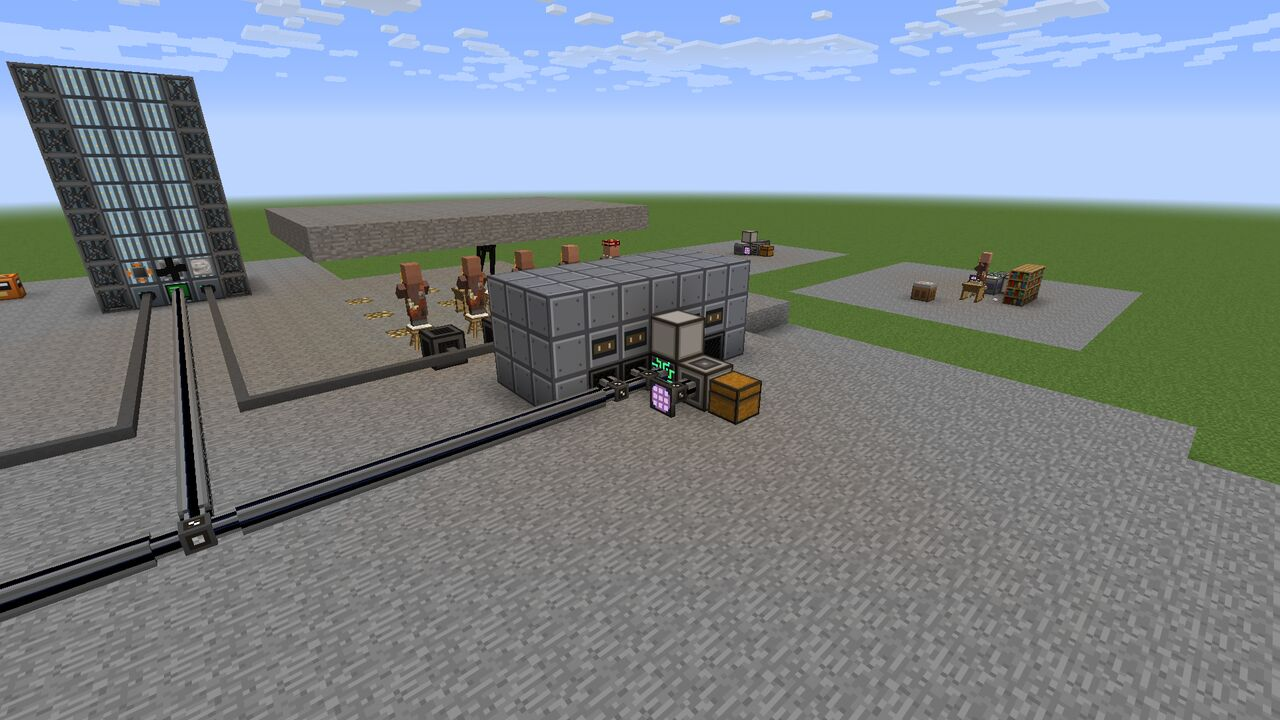
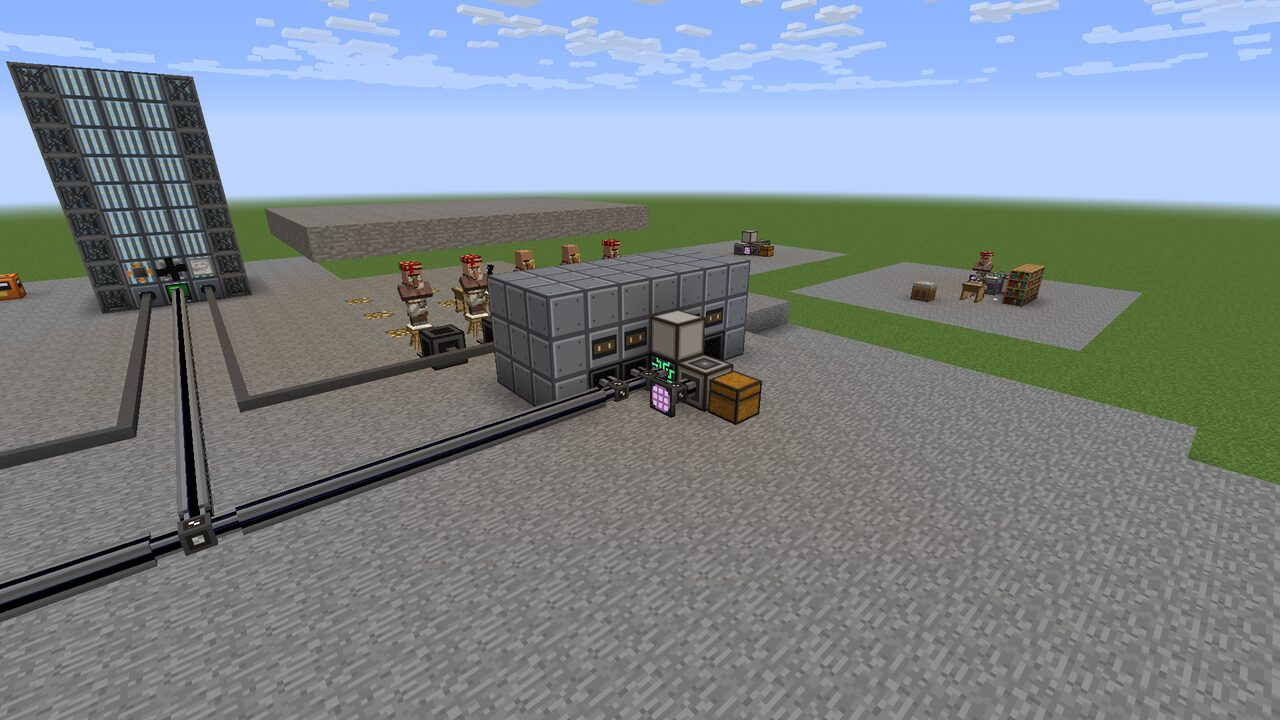
Mainframe terminals need a keyboard in front of the screen
A Mainframe terminal is now a whole OC workstation: a seat, an OC keyboard
beside it, and the screen right behind the keyboard (Workplace.atTerminal).
A worker by a screen with no keyboard counts for nothing, and when that
leaves the office empty, the Mainframe says "no keyboard in front of the
screens" instead of "nobody on the seat".

The office tests place a flat keyboard between each screen and seat, check
the workers face it, and take the keyboards away and back.  Seating stands
beside the seat now, clear of the keyboard, and hiring tries other sides
when a villager wanders in among the workstations.  Both manuals describe
the workstation, and the Founder's Manual has new office pictures.

diff --git a/docs/founders-manual/index.html b/docs/founders-manual/index.html
@@ -321,8 +321,9 @@ morale 100 → 120 % output</div>
       </ul>
 
       <h3>The office</h3>
-      <p>Put it wherever you like: OpenComputers screens on OC cable from the concentrator, each with a contracted worker seated within 2 blocks.  The concentrator powers the screens, up to 32 terminals.</p>
-      <figure><img src="img/office.jpg" alt="Villagers seated at OpenComputers screens, an Enderman team lead at a desk, glowstone in the floor under a roof" width="1280" height="720" loading="lazy"><figcaption><b>The office.</b>  Five librarians at their terminals and an Enderman team lead at his desk, under a roof with glowstone in the floor.</figcaption></figure>
+      <p>Put it wherever you like: OpenComputers screens on OC cable from the concentrator.  Each terminal is a proper workstation: a seat, an OC <b>keyboard</b> beside it, and the screen right behind the keyboard, at its height or one up.  A contracted worker goes on the seat and faces the keyboard.  The concentrator powers the screens, up to 32 terminals.</p>
+      <p class="aside">A worker parked by a screen with no keyboard just stares at it, and bills you for the privilege.  The status line says "no keyboard in front of the screens".  Buy the keyboards.</p>
+      <figure><img src="img/office.jpg" alt="Villagers seated at OpenComputers workstations, a keyboard on the floor in front of each and a screen behind it, an Enderman team lead at a desk, glowstone in the floor under a roof" width="1280" height="720" loading="lazy"><figcaption><b>The office.</b>  Five librarians at their terminals, each facing a keyboard with its screen behind, and an Enderman team lead at its desk, under a roof with glowstone in the floor.</figcaption></figure>
 
       <h3 id="managers">Management</h3>
       <p>Unmanaged people don't cooperate.  A facility's FTE is the sum of its unmanaged units divided by the square root of how many there are.  A manager's team counts as the sum of its reports times the manager's efficiency, up to 8 reports.  Managers produce nothing.  They are required.</p>
@@ -478,6 +479,7 @@ re-verifying  = 20 % × (1 − training) chance per finished plan</div>
           <tr><td>no power or no ME channel</td><td>Power the network, and give the tray or controller a channel</td></tr>
           <tr><td>no seat within 2 blocks</td><td>Put a BiblioCraft seat within 2 blocks of the tray</td></tr>
           <tr><td>nobody on the seat</td><td>Hire someone, or sit down yourself</td></tr>
+          <tr><td>no keyboard in front of the screens</td><td>A Mainframe terminal is seat, keyboard, then screen.  Put the keyboard between them</td></tr>
           <tr><td>no desk next to the seat</td><td>A BiblioCraft desk beside the seat</td></tr>
           <tr><td>no typewriter (no planning)</td><td>A typewriter within a block of the seat</td></tr>
           <tr><td>paper (planning at 25 %)</td><td>Paper in the tray, or paper or punch cards in the input bus</td></tr>

diff --git a/inworld-tests/test_mainframe.py b/inworld-tests/test_mainframe.py
@@ -4,12 +4,14 @@ In-world test: the Mainframe, the EV facility (design document, section 6.2; M3 
 
 A Mainframe facing north, its four racks holding tier 1 servers (32 FTE of hardware), a debug energy hatch, an
 maintenance hatch (fixed by the harness) and input and output buses at the back, and its Terminal Concentrator wired by OC cable to five
-separate tier 1 screens.  Each screen has a BiblioCraft seat two blocks south of it.  The ME network is the Desk
+separate tier 1 screens.  Each screen is a workstation: an OC keyboard on the floor south of it and a BiblioCraft
+seat south of the keyboard.  The ME network is the Desk
 test's: a creative controller, a drive, and an interface whose stone pattern pushes cobblestone into a chest.
 
   Formed:      the structure forms; with nobody seated it reports no workers.
   Office:      five librarians, hired and seated, are five terminals' workers: five unmanaged roots are worth
-               5 / sqrt(5) FTE, planning at that x 4 x 1.5 steps/s while idle.
+               5 / sqrt(5) FTE, planning at that x 4 x 1.5 steps/s while idle.  Each faces its keyboard, north.
+  Keyboards:   with the keyboards gone, nobody counts and the Mainframe says why; put back, all five count again.
   A craft:     200 stone dispatch at the office's rate, about 2.2 ops/s (librarians have no dispatch affinity).
   Management:  an Enderman at a desk with a bell, under a roof so the sun does not make it teleport, becomes their
                team lead: 5 x 0.8 = 4 FTE.
@@ -25,7 +27,7 @@ from nhdev import NH_DEV_ROOT as REPO_ROOT  # noqa: F401 (puts the workspace on 
 from tools.agentharness import HarnessClient
 from tools.inworld_test_driver import InWorldTestDriver
 
-from abtest import Chat, count_items, desk_status, entities
+from abtest import NORTH_YAW, Chat, count_items, desk_status, entities, faces
 
 TAG = "ab_mainframe"
 Y = 6
@@ -39,6 +41,7 @@ INTERFACE = (60, Y, 418)
 PUSHED = (60, Y, 417)
 SCREENS_X = (56, 58, 60, 62, 64)
 SCREEN_Z = 425
+KEYBOARD_Z = 426
 SEAT_Z = 427
 MANAGER_SEAT = (60, Y, 430)
 STANDING_ON = (60.5, Y, 432.5)
@@ -84,13 +87,14 @@ def build(client: HarnessClient):
     client.set_container_slot(*INPUT_BUS, 2, "minecraft:emerald", 16)
     client.set_container_slot(*INPUT_BUS, 3, "minecraft:ender_pearl", 4)
     client.set_container_slot(*INPUT_BUS, 4, "appliedbureaucratics:component", 4, damage=4)
-    # The office: cable from the concentrator to a row of separate screens, a seat south of each.
+    # The office: cable from the concentrator to a row of separate screens, each with a keyboard and a seat south.
     client.set_block(60, Y, 423, "OpenComputers:cable")
     for x in range(55, 66):
         client.set_block(x, Y, 424, "OpenComputers:cable")
     for x in SCREENS_X:
         client.set_block(x, Y, SCREEN_Z, "OpenComputers:screen1")
         client.set_block(x, Y, SEAT_Z, "BiblioCraft:BiblioSeats")
+    add_keyboards(client)
     # A manager's office: a seat with a desk and a bell beside it.
     client.set_block(*MANAGER_SEAT, "BiblioCraft:BiblioSeats")
     client.set_block(MANAGER_SEAT[0] + 1, Y, MANAGER_SEAT[2], "BiblioCraft:BiblioDesk")
@@ -143,8 +147,10 @@ def wait_status(client: HarnessClient, chat: Chat, test, seconds: float = 30) ->
 
 
 def hire(client: HarnessClient, chat: Chat, entity: dict, contract: str):
-    """Hires `entity`, retrying with its new position if it walked off before the click landed."""
-    for attempt in range(4):
+    """Hires `entity`, retrying with its new position if it walked off before the click landed, and from another side
+    if something (a seat, when it wandered in among the workstations) was in the way."""
+    sides = ((0, 2.5), (2.5, 0), (-2.5, 0), (0, -2.5))
+    for attempt in range(8):
         if attempt:
             moved = [e for e in client.nearby_entities(radius=40) if e.get("id") == entity["id"]]
             if not moved:
@@ -152,7 +158,8 @@ def hire(client: HarnessClient, chat: Chat, entity: dict, contract: str):
             entity = moved[0]
         client.set_player_slot(0, contract, 1)
         client.select_item(contract)
-        client.teleport(entity["x"], Y, entity["z"] + 2.5)
+        dx, dz = sides[attempt % len(sides)]
+        client.teleport(entity["x"] + dx, Y, entity["z"] + dz)
         time.sleep(0.3)
         client.look_at(entity["x"], entity["y"] + 1.0, entity["z"])
         client.right_click()
@@ -161,10 +168,32 @@ def hire(client: HarnessClient, chat: Chat, entity: dict, contract: str):
     raise AssertionError(f"Could not hire {entity}")
 
 
-def seat(client: HarnessClient, chat: Chat, seat_pos: tuple):
+def add_keyboards(client: HarnessClient, xs=SCREENS_X, by_hand: bool = True):
+    """A keyboard on the floor between each screen and its seat.
+
+    By hand, each is placed as a player would, standing on the empty seat and looking north at the floor, so it lies
+    flat with its keys towards the seat; `set_block` would stand it on edge against the screen.  Placing by hand needs
+    the seats empty: a seated worker would take the click."""
+    if not by_hand:
+        for x in xs:
+            client.set_block(x, Y, KEYBOARD_Z, "OpenComputers:keyboard")
+        return
+    client.set_player_slot(0, "OpenComputers:keyboard", 64)
+    client.select_item("OpenComputers:keyboard")
+    for x in xs:
+        client.teleport(x + 0.5, Y + 1, SEAT_Z + 0.5)
+        time.sleep(0.3)
+        client.look_at(x + 0.5, Y, KEYBOARD_Z + 0.4)
+        client.right_click()
+        time.sleep(0.2)
+    client.set_player_slot(0)
+
+
+def seat(client: HarnessClient, chat: Chat, seat_pos: tuple, side=(1, 0)):
+    """Seats the worker of the selected signed contract, standing on `side` (dx, dz) of the seat: by default east,
+    away from where the workers wait and clear of the keyboard in front of the seat."""
     client.select_item("appliedbureaucratics:signed_contract")
-    # From the side away from where the workers wait, so none of them is in the way.
-    client.teleport(seat_pos[0] + 0.5, Y, seat_pos[2] - 1.5)
+    client.teleport(seat_pos[0] + 0.5 + side[0], Y, seat_pos[2] + 0.5 + side[1])
     time.sleep(0.3)
     client.look_at(seat_pos[0] + 0.5, seat_pos[1] + 0.4, seat_pos[2] + 0.5)
     time.sleep(0.3)
@@ -207,7 +236,26 @@ def check_office(client: HarnessClient, chat: Chat):
     assert s.get("workers") == len(SCREENS_X), s
     assert abs(s["fte"] - fte) < 0.01, f"Expected {fte:.3f} FTE from five unmanaged workers, got {s}"
     assert abs(s["planning"] - fte * 4 * 1.5) < 0.3, f"Expected about {fte * 6:.1f} steps/s, got {s}"
-    print(f"[✓] Five librarians: {s['fte']:.2f} FTE, planning at {s['planning']} steps/s")
+    seated = [e for e in entities(client, "EntityVillager", radius=30) if abs(e["z"] - (SEAT_Z + 0.5)) < 0.3]
+    assert len(seated) == len(SCREENS_X), f"Expected {len(SCREENS_X)} seated villagers, got {seated}"
+    turned = [e for e in seated if not faces(e, NORTH_YAW)]
+    assert not turned, f"Expected every worker to face its keyboard, north: {turned}"
+    print(f"[✓] Five librarians, facing their keyboards: {s['fte']:.2f} FTE, planning at {s['planning']} steps/s")
+
+
+def check_keyboards(client: HarnessClient, chat: Chat):
+    print("[*] Keyboards")
+    for x in SCREENS_X:
+        client.set_block(x, Y, KEYBOARD_Z, "minecraft:air")
+    s = wait_status(client, chat, lambda s: s.get("workers") == 0)
+    print(f"    {s}")
+    assert s.get("workers") == 0, f"Expected no workers without keyboards, got {s}"
+    assert "no keyboard" in s["head"], f"Expected the Mainframe to blame the keyboards, got {s}"
+    add_keyboards(client, by_hand=False)
+    client.teleport(*STANDING_ON)
+    s = wait_status(client, chat, lambda s: s.get("workers") == len(SCREENS_X))
+    assert s.get("workers") == len(SCREENS_X), f"Expected all five back at work, got {s}"
+    print("[✓] Without keyboards nobody counts, and the Mainframe says so; with them back, all five do")
 
 
 def check_craft(client: HarnessClient, chat: Chat):
@@ -252,7 +300,8 @@ def check_management(client: HarnessClient, chat: Chat):
             hired = True
             break
     assert hired, "Could not hire an Enderman"
-    seat(client, chat, MANAGER_SEAT)
+    # From the north: the desk is east of the seat, and the Enderman waits south of it.
+    seat(client, chat, MANAGER_SEAT, side=(0, -1))
     client.teleport(*STANDING_ON)
     s = wait_status(client, chat, lambda s: s.get("leads") == 1)
     print(f"    {s}")
@@ -272,6 +321,7 @@ def main(port: int) -> bool:
         chat = Chat(client)
         check_formed(client, chat)
         check_office(client, chat)
+        check_keyboards(client, chat)
         check_craft(client, chat)
         check_management(client, chat)
 

diff --git a/src/main/java/com/gtnewhorizons/appliedbureaucratics/facility/mainframe/MTEMainframe.java b/src/main/java/com/gtnewhorizons/appliedbureaucratics/facility/mainframe/MTEMainframe.java
@@ -49,6 +49,7 @@ import com.gtnewhorizons.appliedbureaucratics.facility.internet.MTEInternet;
 import com.gtnewhorizons.appliedbureaucratics.item.ItemComponent;
 import com.gtnewhorizons.appliedbureaucratics.workforce.Employment;
 import com.gtnewhorizons.appliedbureaucratics.workforce.ManagerKind;
+import com.gtnewhorizons.appliedbureaucratics.workforce.Workplace;
 
 import appeng.me.cluster.implementations.HostedCraftingCPUCluster;
 import cpw.mods.fml.common.registry.GameRegistry;
@@ -76,7 +77,9 @@ the racks are its hardware capacity, in FTE: 8 / 16 / 32 for a tier 1 / 2 / 3 se
 Office FTE above the hardware is wasted, and each open maintenance issue takes 10 % of the hardware.
 
 The office is freeform.  A terminal is an OC screen on the concentrator's network (TileTerminalConcentrator), with a
-contracted worker seated within 2 blocks of it; a screen of tier 1 / 2 / 3 makes its worker worth 1 / 1.25 / 1.5 FTE.
+contracted worker seated within 2 blocks of it at an OC workstation: a keyboard beside the seat and a screen behind
+the keyboard (Workplace.atTerminal; see Note [Facing the workstation]).  A screen of tier 1 / 2 / 3 makes its
+worker worth 1 / 1.25 / 1.5 FTE.
 A manager's office is a seat with a BiblioCraft desk and bell next to it, within 24 blocks of the controller; the org
 chart (OrgChart) is built from where everyone sits, with leads and one level of directors.
 
@@ -113,6 +116,8 @@ public class MTEMainframe extends MTEComputeFacility<MTEMainframe> implements IS
     private double hardwareFte;
     private int servers;
     private int terminals;
+    /// Workers seated by a screen with no keyboard in front of it, who count for nothing.
+    private int withoutKeyboard;
     private int robots;
     private double botnetFactor = 0.5;
     private static final int MAX_SEATS = 32;
@@ -157,7 +162,8 @@ public class MTEMainframe extends MTEComputeFacility<MTEMainframe> implements IS
             .addInfo("Nobody ever got fired for buying one.")
             .addInfo("One AE2 job slot, run by an office of villagers at OpenComputers terminals")
             .addInfo("Hardware capacity from the servers in its racks: 8 / 16 / 32 FTE per tier 1 / 2 / 3 server")
-            .addInfo("Terminals: OC screens on the Terminal Concentrator's network, a contracted worker seated by each")
+            .addInfo("Terminals: OC screens on the Terminal Concentrator's network, each with a keyboard in front")
+            .addInfo("A contracted worker seated at each keyboard, facing the screen")
             .addInfo("Managers: a seat with a desk and a bell, within 24 blocks")
             .addInfo("Input bus: tape reels (Filing), paper or punch cards, emeralds, ender pearls, gold, data tapes")
             .addInfo("Output bus: Work Logs")
@@ -354,6 +360,7 @@ public class MTEMainframe extends MTEComputeFacility<MTEMainframe> implements IS
         }
         final List<OrgChart.Worker> staff = new ArrayList<>();
         final Set<Workstations.Seated> counted = new HashSet<>();
+        final Set<Workstations.Seated> keyboardless = new HashSet<>();
         int amenitySum = 0;
         int crowdedSeats = 0;
         boolean hasButcher = false;
@@ -368,9 +375,15 @@ public class MTEMainframe extends MTEComputeFacility<MTEMainframe> implements IS
             for (final Workstations.Seated seated : Workstations
                 .within(world, screen.x() + 0.5, screen.y() + 0.5, screen.z() + 0.5, 2.5)) {
                 if (seated.employment()
-                    .getRole() == Employment.Role.WORKER && !counted.contains(seated)
-                    && (best == null || seated.distanceSq(screen.x() + 0.5, screen.y() + 0.5, screen.z() + 0.5)
-                        < best.distanceSq(screen.x() + 0.5, screen.y() + 0.5, screen.z() + 0.5))) {
+                    .getRole() != Employment.Role.WORKER || counted.contains(seated)) {
+                    continue;
+                }
+                if (!Workplace.atTerminal(world, seated.x(), seated.y(), seated.z())) {
+                    keyboardless.add(seated);
+                    continue;
+                }
+                if ((best == null || seated.distanceSq(screen.x() + 0.5, screen.y() + 0.5, screen.z() + 0.5)
+                    < best.distanceSq(screen.x() + 0.5, screen.y() + 0.5, screen.z() + 0.5))) {
                     best = seated;
                 }
             }
@@ -466,6 +479,8 @@ public class MTEMainframe extends MTEComputeFacility<MTEMainframe> implements IS
         }
         this.org = new OrgChart.Result(roots, chart.leads(), chart.directors(), chart.executives(), chart.unmanaged());
         this.terminals = screens.size();
+        keyboardless.removeAll(counted);
+        this.withoutKeyboard = keyboardless.size();
         this.workers = staff.size();
         this.amenities = staff.isEmpty() ? 0 : amenitySum / staff.size();
         this.crowded = crowdedSeats * 2 > staff.size() && !staff.isEmpty();
@@ -510,7 +525,7 @@ public class MTEMainframe extends MTEComputeFacility<MTEMainframe> implements IS
             return;
         }
         if (this.workers == 0) {
-            this.setOff(Bottleneck.NO_WORKER);
+            this.setOff(this.withoutKeyboard > 0 ? Bottleneck.NO_KEYBOARD : Bottleneck.NO_WORKER);
             this.showScreens();
             return;
         }

diff --git a/src/main/java/com/gtnewhorizons/appliedbureaucratics/workforce/Workplace.java b/src/main/java/com/gtnewhorizons/appliedbureaucratics/workforce/Workplace.java
@@ -1,5 +1,6 @@
 package com.gtnewhorizons.appliedbureaucratics.workforce;
 
+import net.minecraft.block.Block;
 import net.minecraft.world.World;
 
 import org.jspecify.annotations.Nullable;
@@ -25,8 +26,14 @@ DataWatcher, so the client's copy of the mount, which is made from a spawn packe
 turns the rider the same way as the server's.  The server looks for the workstation again every second, so a seat
 furnished after its worker sat down, or refurnished, turns its worker round.  A seat with no workstation keeps the
 yaw it had: when the worker sat down, the way the player who seated it was looking.
+
+A Mainframe terminal is a whole OC workstation, not just a screen: Workplace.atTerminal holds when the seat has an
+OC keyboard beside it (at seat height or one above, on a desk) and an OC screen right behind the keyboard, at the
+keyboard's height or one above.  In the office tests (test_mainframe.py, test_internet.py) the seat is at z 427,
+the keyboard on the floor at z 426 and the screen at z 425, so the worker faces north, at the keyboard and screen.
+MTEMainframe counts a worker at a screen only when its seat passes atTerminal.
 */
-/// Where a seated worker works: which way it faces.
+/// Where a seated worker works: which way it faces, and whether its seat is an OpenComputers workstation.
 /// See Note [Facing the workstation].
 public final class Workplace {
 
@@ -49,5 +56,26 @@ public final class Workplace {
             }
         }
         return null;
+    }
+
+    /// Whether the seat at `x, y, z` has an OC keyboard beside it with a screen right behind the keyboard.
+    public static boolean atTerminal(final World world, final int x, final int y, final int z) {
+        for (final int[] side : SIDES) {
+            for (int dy = 0; dy <= 1; dy++) {
+                final int kx = x + side[0];
+                final int ky = y + dy;
+                final int kz = z + side[1];
+                if (!Furniture.KEYBOARD.matches(world.getBlock(kx, ky, kz))) {
+                    continue;
+                }
+                for (int sy = 0; sy <= 1; sy++) {
+                    final Block behind = world.getBlock(kx + side[0], ky + sy, kz + side[1]);
+                    if (Furniture.SCREEN.matches(behind)) {
+                        return true;
+                    }
+                }
+            }
+        }
+        return false;
     }
 }

diff --git a/inworld-tests/test_internet.py b/inworld-tests/test_internet.py
@@ -21,6 +21,7 @@ from nhdev import NH_DEV_ROOT as REPO_ROOT  # noqa: F401 (puts the workspace on 
 from tools.agentharness import HarnessClient
 from tools.inworld_test_driver import InWorldTestDriver
 
+import test_mainframe
 from abtest import Chat, entities
 
 TAG = "ab_internet"
@@ -36,7 +37,8 @@ STANDING_ON = (70.5, Y, 432.5)
 
 
 def build_mainframe(client: HarnessClient, cx: int):
-    """A Mainframe facing north with its controller at (cx, Y, 420), and one screen and seat south of it."""
+    """A Mainframe facing north with its controller at (cx, Y, 420), and one workstation south of it:
+    a screen, a keyboard and a seat."""
     for x in range(cx - 3, cx + 4):
         for z in (420, 421, 422):
             for y in range(Y - 1, Y + 3):
@@ -62,6 +64,7 @@ def build_mainframe(client: HarnessClient, cx: int):
     client.set_block(cx, Y, 424, "OpenComputers:cable")
     client.set_block(cx, Y, 425, "OpenComputers:screen1")
     client.set_block(cx, Y, 427, "BiblioCraft:BiblioSeats")
+    test_mainframe.add_keyboards(client, xs=(cx,))
 
 
 def build_internet(client: HarnessClient):
@@ -168,7 +171,7 @@ def staff(client: HarnessClient, chat: Chat):
         client.right_click()
         assert chat.wait_for(r"Welcome aboard"), "Could not hire"
         client.select_item("appliedbureaucratics:signed_contract")
-        client.teleport(cx + 0.5, Y, 426.5)
+        client.teleport(cx + 1.5, Y, 427.5)
         time.sleep(0.4)
         client.look_at(cx + 0.5, Y + 0.4, 427.5)
         client.right_click()

diff --git a/src/main/java/com/gtnewhorizons/appliedbureaucratics/facility/Bottleneck.java b/src/main/java/com/gtnewhorizons/appliedbureaucratics/facility/Bottleneck.java
@@ -8,6 +8,7 @@ public enum Bottleneck {
     NO_POWER,
     NO_SEAT,
     NO_WORKER,
+    NO_KEYBOARD,
     NO_DESK,
     NO_TYPEWRITER,
     NO_PAPER,

diff --git a/docs/manual.md b/docs/manual.md
@@ -64,8 +64,10 @@ server), and a **Terminal Concentrator** in the middle of the back.  Hatches any
 bus (tape reels for Filing, paper or punch cards, emeralds, ender pearls and gold for managers, blank data tapes) and an
 output bus (Work Logs).
 
-The **office** is wherever you like: OC screens wired to the concentrator by OC cable, each with a contracted worker
-seated within 2 blocks.  The concentrator powers the screens.  Up to 32.
+The **office** is wherever you like: OC screens wired to the concentrator by OC cable, each one a workstation: a
+seat, an OC **keyboard** beside it, and the screen right behind the keyboard (at its height or one up), with a
+contracted worker on the seat.  A worker by a screen with no keyboard in front counts for nothing.  The concentrator
+powers the screens.  Up to 32.  Seated workers face their workstation: the typewriter, the keyboard, or the desk.
 
 ### Managers
 
